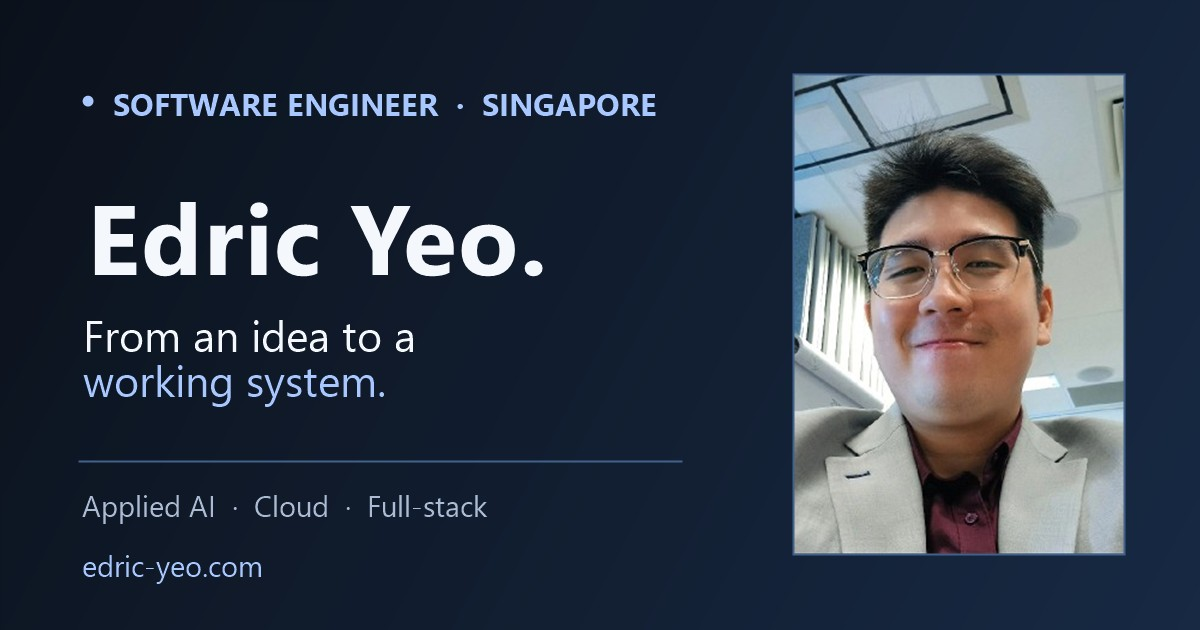
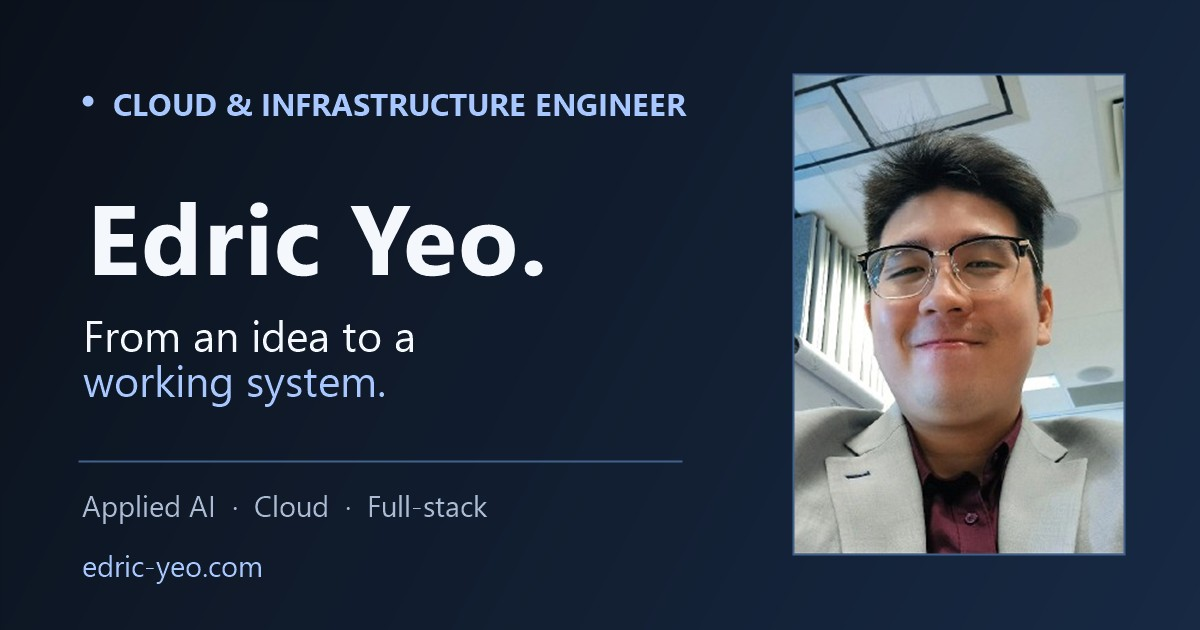
refactor: update portfolio descriptions and titles for consistency in cloud and infrastructure engineering

Changed region(s): [[0.0925, 0.1508, 0.5858, 0.181]]

diff --git a/index.html b/index.html
@@ -7,31 +7,31 @@
     <meta name="theme-color" content="#0b111b" />
     <meta
       name="description"
-      content="Edric Yeo — software engineering portfolio. Explore applied AI, cloud engineering, and full-stack projects."
+      content="Edric Yeo — cloud and infrastructure engineering portfolio. Explore cloud systems, applied AI, and full-stack projects."
     />
     <meta name="author" content="Edric Yeo" />
     <meta name="robots" content="index, follow" />
     <link rel="canonical" href="https://edric-yeo.com/" />
     <meta property="og:type" content="website" />
     <meta property="og:site_name" content="Edric Yeo" />
-    <meta property="og:title" content="Edric Yeo · Software Engineer" />
+    <meta property="og:title" content="Edric Yeo · Cloud & Infrastructure Engineer" />
     <meta
       property="og:description"
-      content="Applied AI, cloud engineering, and full-stack projects built by Edric Yeo."
+      content="Cloud infrastructure, applied AI, and full-stack projects built by Edric Yeo."
     />
     <meta property="og:url" content="https://edric-yeo.com/" />
     <meta property="og:image" content="https://edric-yeo.com/social-preview.jpg" />
     <meta property="og:image:width" content="1200" />
     <meta property="og:image:height" content="630" />
-    <meta property="og:image:alt" content="Edric Yeo, Software Engineer — applied AI, cloud, and full-stack development" />
+    <meta property="og:image:alt" content="Edric Yeo, Cloud and Infrastructure Engineer — applied AI, cloud, and full-stack development" />
     <meta name="twitter:card" content="summary_large_image" />
     <meta name="twitter:image" content="https://edric-yeo.com/social-preview.jpg" />
-    <meta name="twitter:title" content="Edric Yeo · Software Engineer" />
+    <meta name="twitter:title" content="Edric Yeo · Cloud & Infrastructure Engineer" />
     <meta
       name="twitter:description"
-      content="Applied AI, cloud engineering, and full-stack projects built by Edric Yeo."
+      content="Cloud infrastructure, applied AI, and full-stack projects built by Edric Yeo."
     />
-    <title>Edric Yeo · Software Engineer</title>
+    <title>Edric Yeo · Cloud & Infrastructure Engineer</title>
   </head>
   <body>
     <div id="root"></div>

diff --git a/src/components/sections/Hero.jsx b/src/components/sections/Hero.jsx
@@ -25,7 +25,7 @@ export default function Hero() {
         <div className="hero-grid">
           <div>
             <p className="eyebrow">
-              <span className="status-dot" /> Software engineer · Singapore
+              <span className="status-dot" /> Cloud & infrastructure engineer · Singapore
             </p>
             <h1>Edric Yeo<span className="hero-period">.</span></h1>
             <h2 className="hero-statement">
